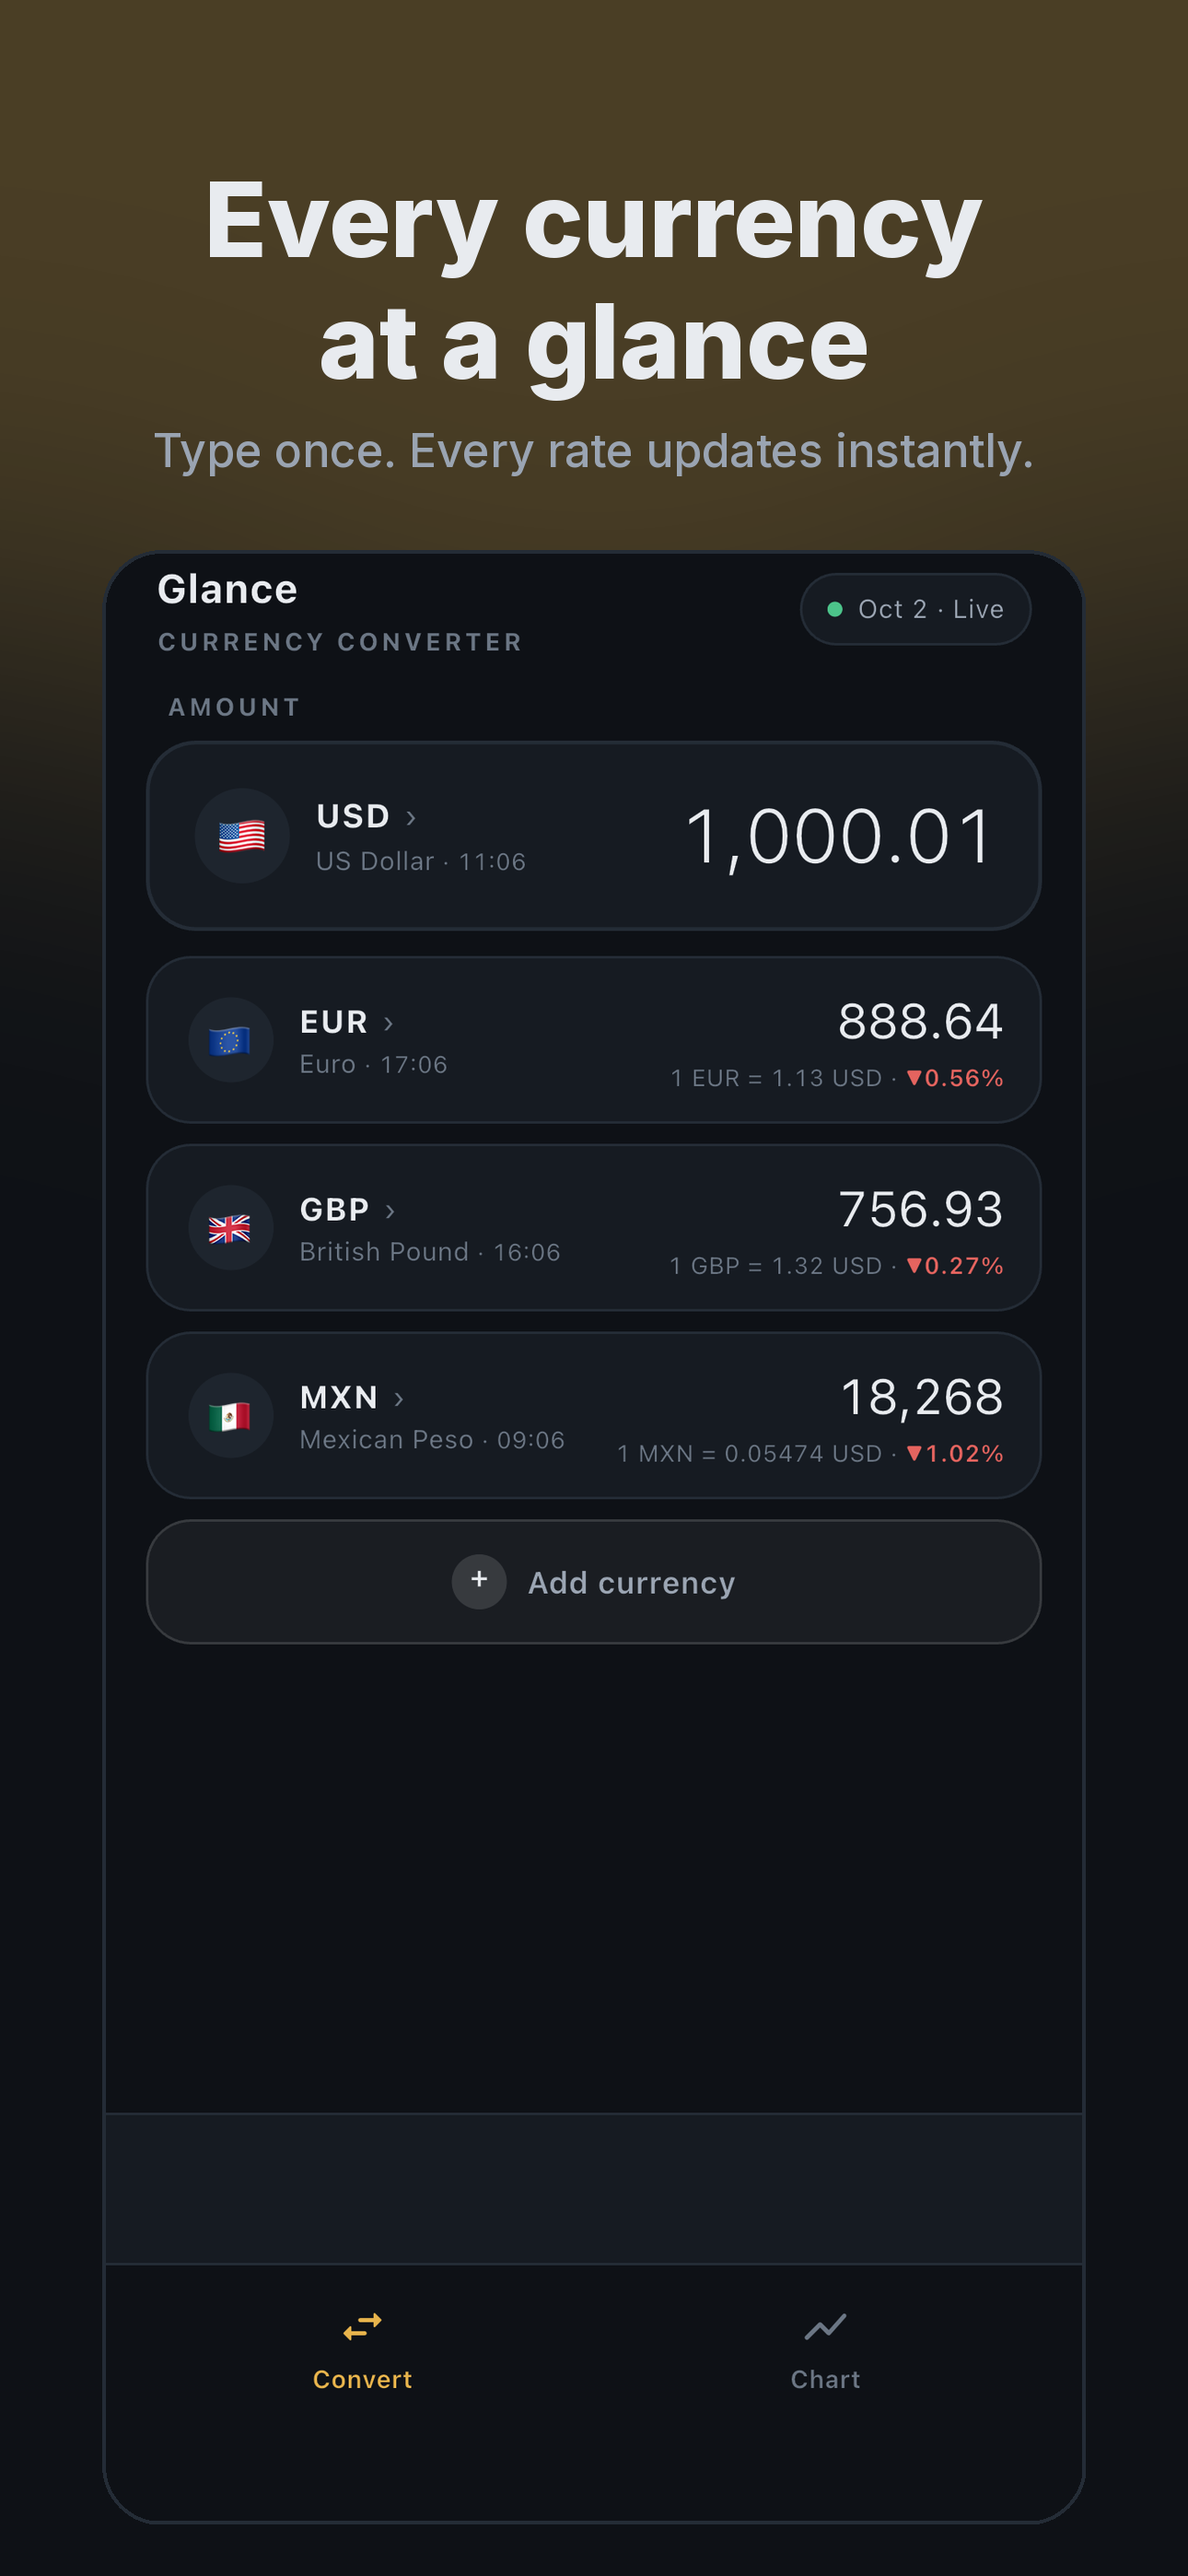
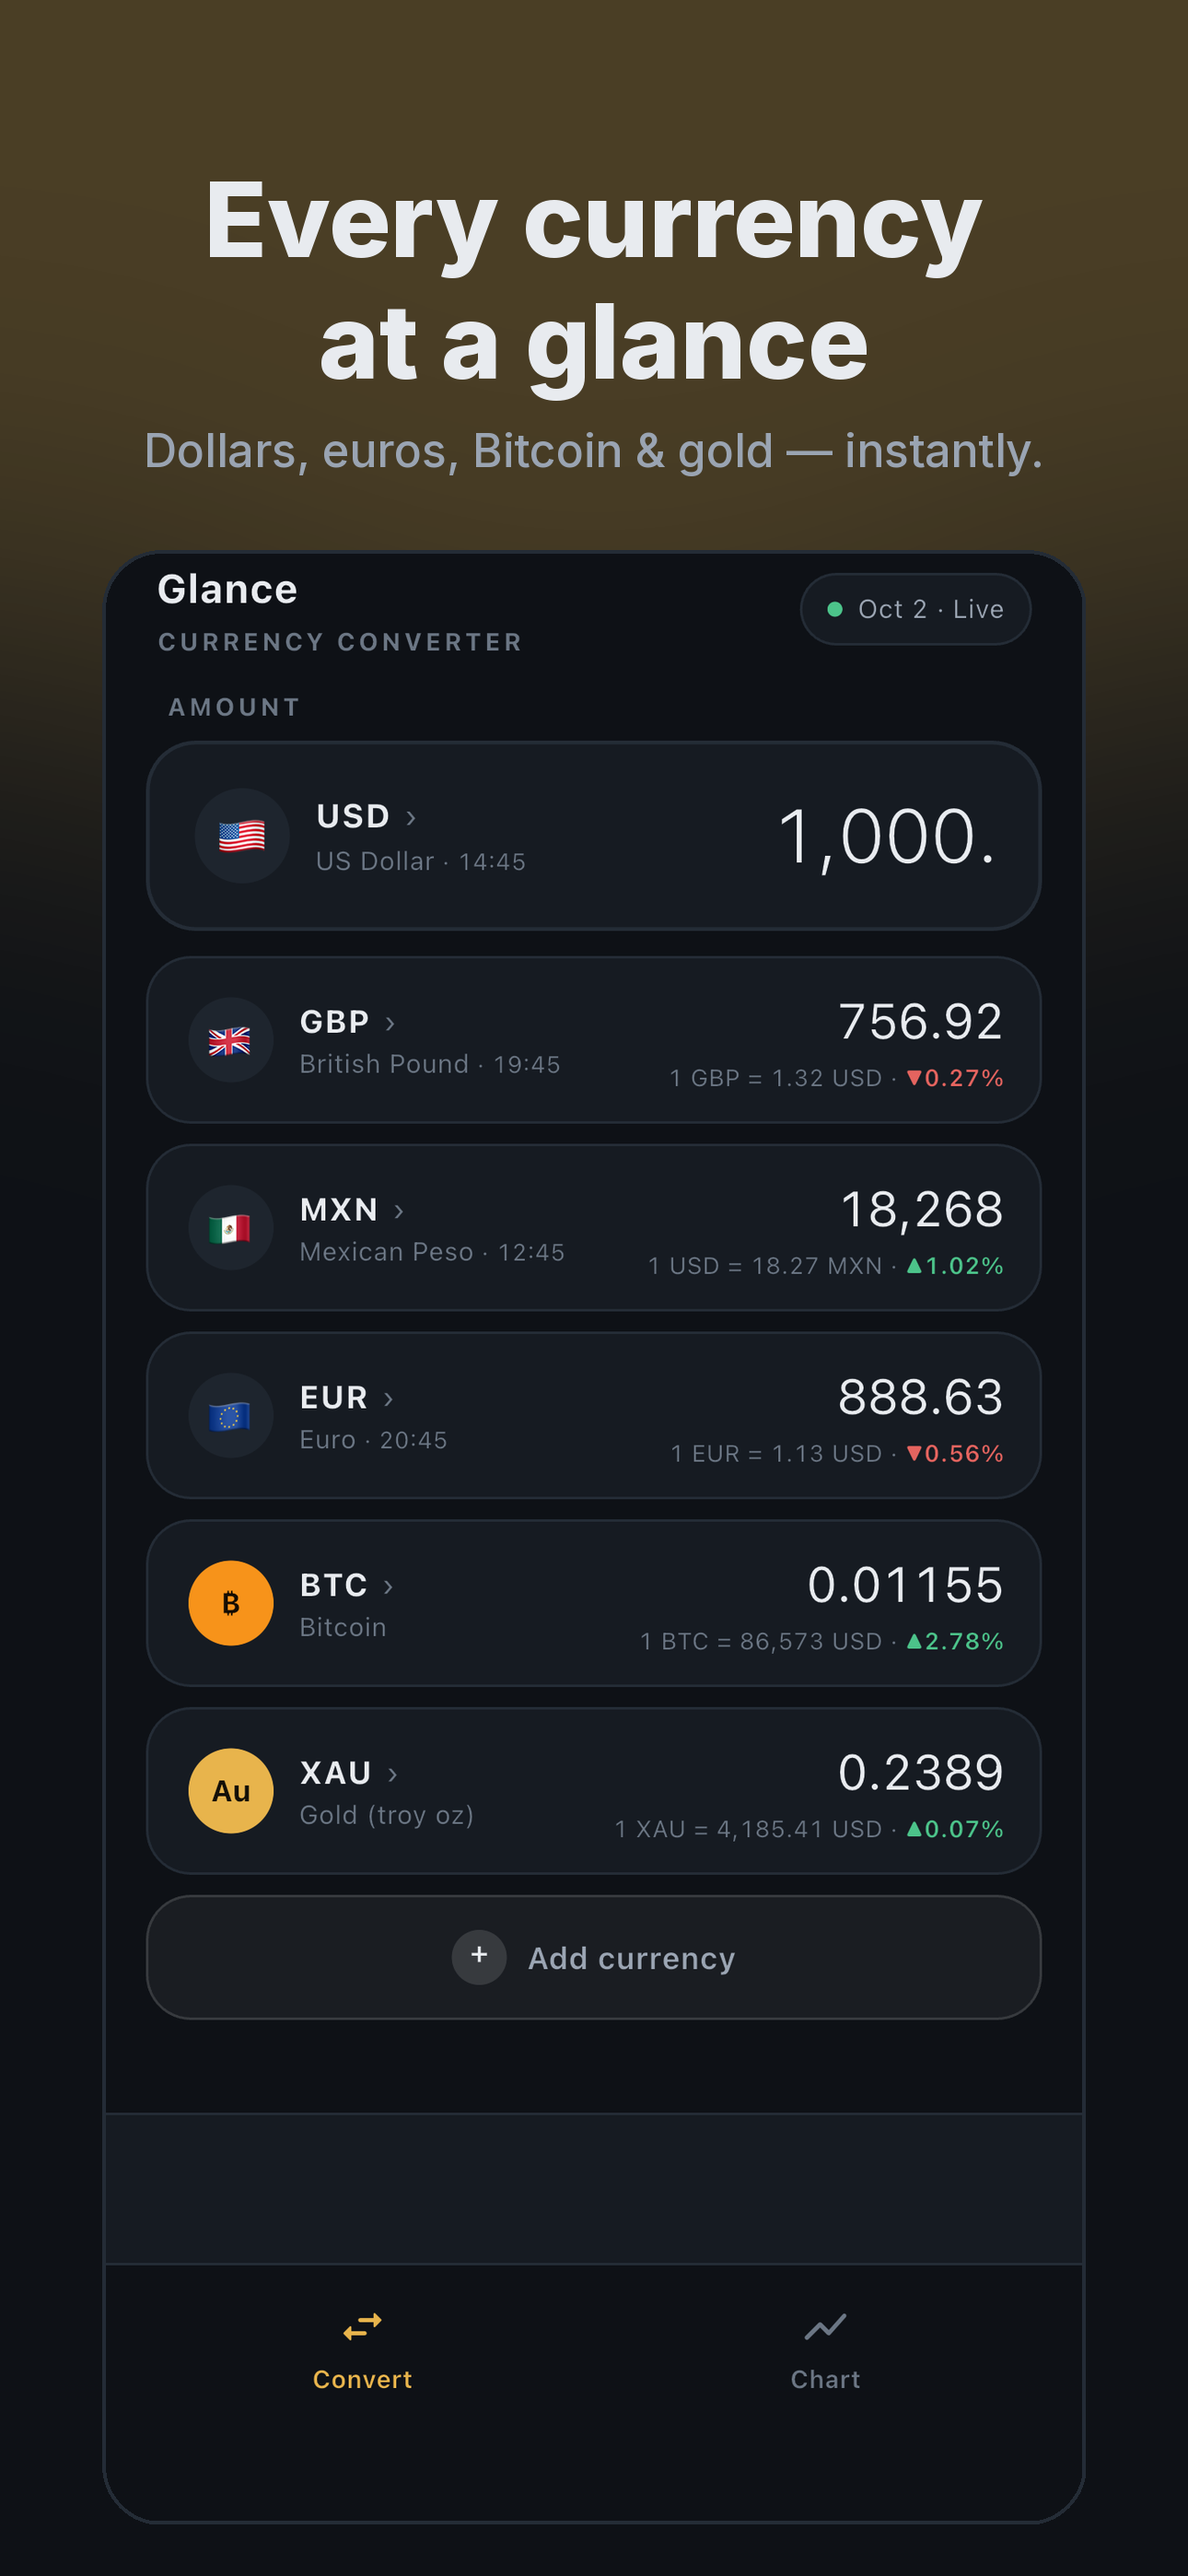
환율 앱 스크린샷 v2: 금·비트코인이 보이는 변환 화면을 첫 장으로
01 변환(USD→GBP·MXN·EUR·BTC·XAU) / 02 아무 줄 입력 / 03 gold 검색 / 04 차트.
심사 중에는 스크린샷을 못 바꾸므로 다음 버전 때 '등록 정보 채우기'로 올린다.

Claude-Session: https://claude.ai/code/session_01EYTv2WY6kpnKT8x9ekqmeZ

diff --git a/currency_app/store/screenshots/make.py b/currency_app/store/screenshots/make.py
@@ -19,10 +19,10 @@ SUB = (154, 164, 178)
 LINE = (36, 44, 54)
 
 SHOTS = [
-    ('IMG_9544.png', '01-convert.png', 'Every currency\nat a glance', 'Type once. Every rate updates instantly.'),
+    ('IMG_9557.png', '01-convert.png', 'Every currency\nat a glance', 'Dollars, euros, Bitcoin & gold — instantly.'),
     ('IMG_9545.png', '02-type-any-row.png', 'Type in any row', 'Edit any currency — the rest follow.'),
-    ('IMG_9543.png', '03-chart.png', 'Real rate history', '1W · 1M · 3M · 1Y with highs and lows.'),
-    ('IMG_9546.png', '04-currencies.png', '20+ currencies,\ncrypto & gold', 'Search by name or code. Works offline.'),
+    ('IMG_9555.png', '03-gold-crypto.png', 'Gold, Bitcoin &\n20+ currencies', 'Search by name or code. Works offline.'),
+    ('IMG_9543.png', '04-chart.png', 'Real rate history', '1W · 1M · 3M · 1Y with highs and lows.'),
 ]
 
 STATUS_BAR = 175  # 원본(1170×2532) 기준 위쪽 상태바 높이
